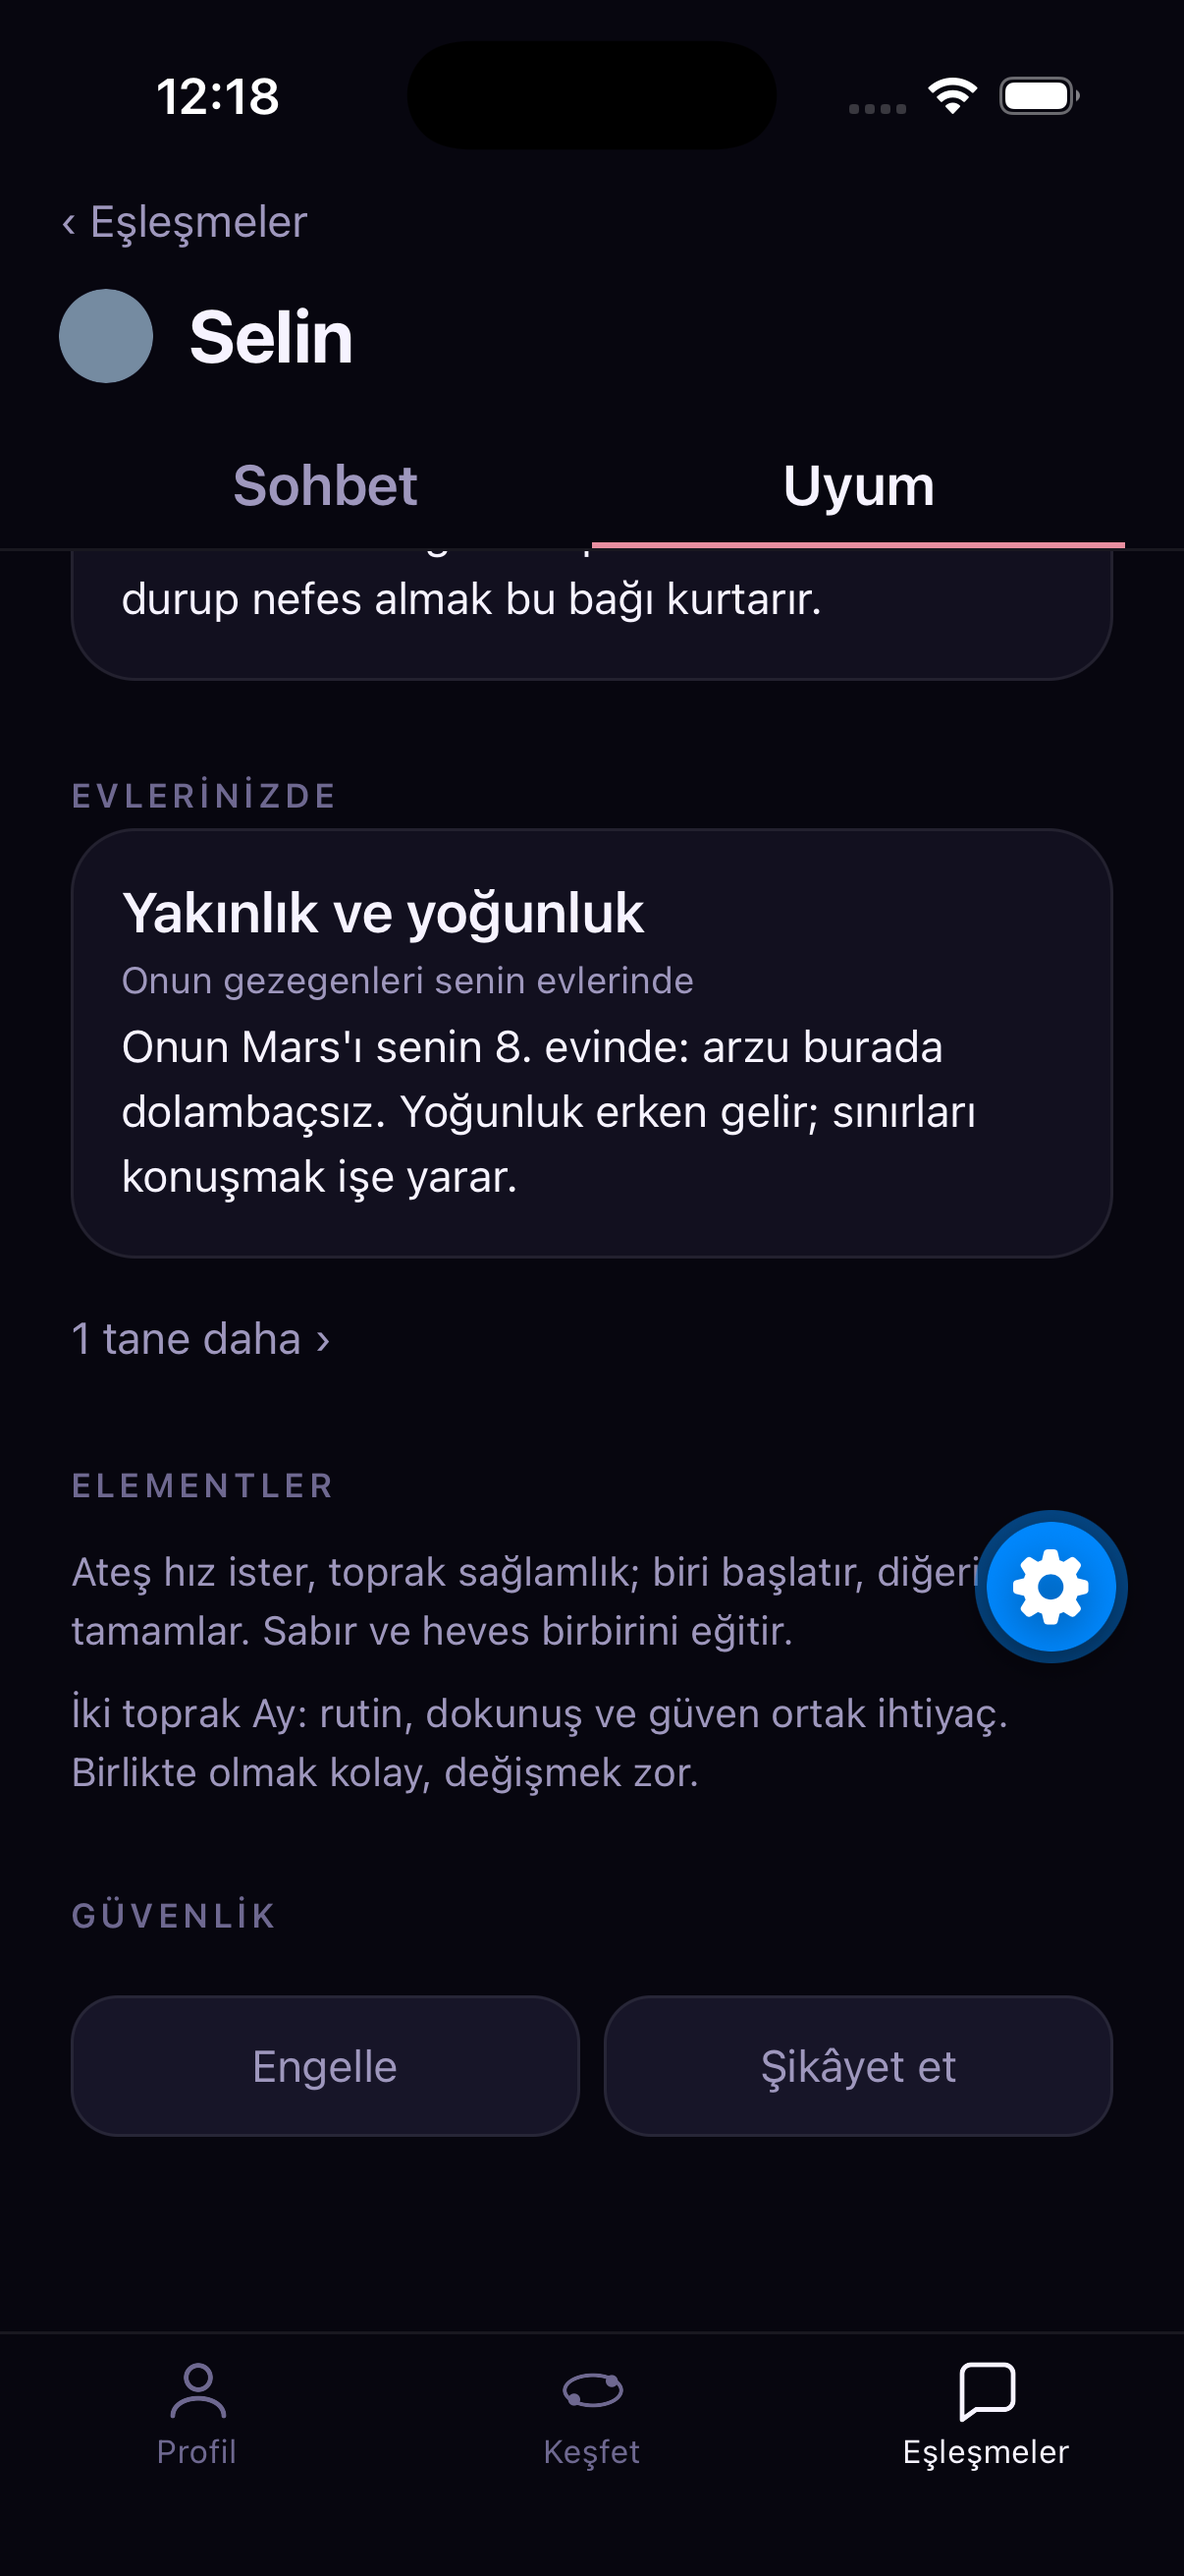
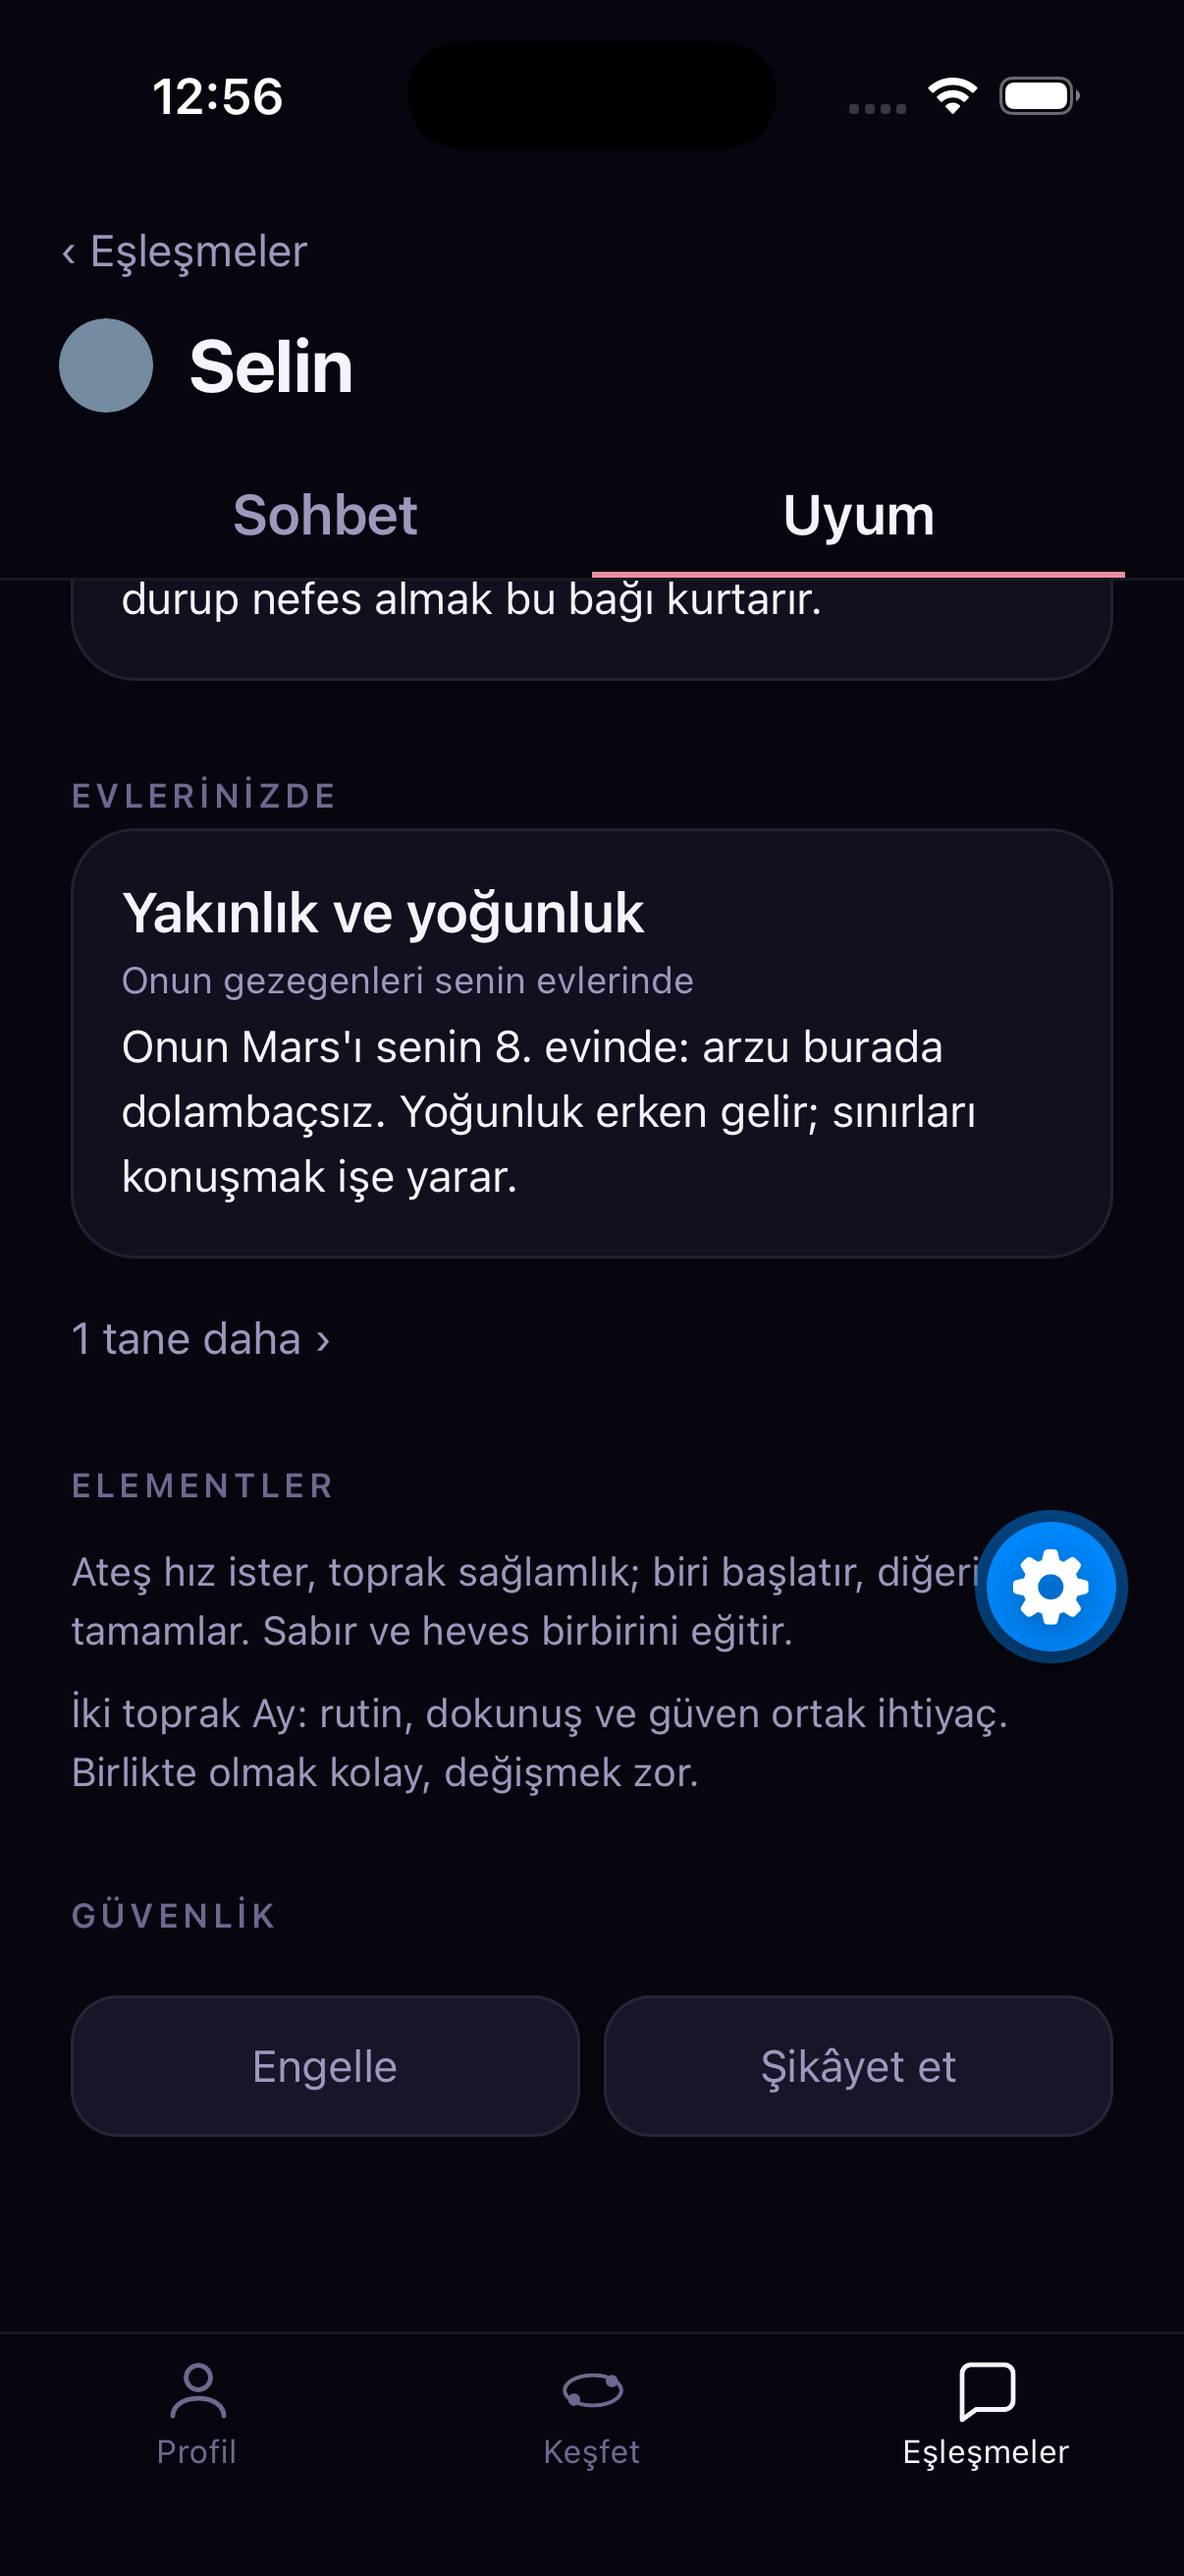
test: pin the Ascendant's degree at the call site that regressed
The rounding fix shipped with a test for the helper, so reverting the
call site back to a raw `% 30` left all 284 tests green. natalReading
now gets an Ascendant of 30.2 and the card is pinned to 0°12′, which is
what the raw modulo prints as 0°11′.

Three more from the same review: degreeInSign could round a longitude up
onto the sign boundary, which an Ascendant can reach because the schema
bounds it only to [0, 360); the dimension chips' flexBasis of 58 needed
322pt where a 360dp Android leaves 310, so the row would have wrapped
with one stretched orphan below it; and the chat header's inset is
floored at 44 for the web client, where it is 0.

Changed region(s): [[0.0307, 0.0309, 0.3068, 0.1854], [0.1841, 0.1854, 0.3682, 0.2162], [0.6443, 0.1854, 0.7977, 0.2162]]

diff --git a/apps/mobile/components/CompatibilityDetail.tsx b/apps/mobile/components/CompatibilityDetail.tsx
@@ -178,12 +178,15 @@ const styles = StyleSheet.create({
   // large Dynamic Type setting a fixed single line would come back as
   // "Yakınlı…" on all five, which is the same complaint in a worse form.
   // `flexWrap` is kept as the escape hatch for a width that cannot hold
-  // five chips at all — five basis widths and four gaps need 322pt, and
-  // the narrowest phone this ships to leaves 327.
+  // five chips at all. Five basis widths and four gaps need 292pt; the
+  // narrowest layout this has to survive is a 360dp Android inside the
+  // page's 24pt padding and a popup's borders, which leaves 310. The
+  // basis is only the wrap threshold — `flexGrow` still spreads the five
+  // across whatever the device actually gives them.
   dimensionRow: { flexDirection: 'row', flexWrap: 'wrap', gap: space.sm },
   dimensionChip: {
     flexGrow: 1,
-    flexBasis: 58,
+    flexBasis: 52,
     alignItems: 'center',
     backgroundColor: color.surfaceSoft,
     borderRadius: radius.sm,

diff --git a/packages/astro/src/summary.test.ts b/packages/astro/src/summary.test.ts
@@ -31,6 +31,20 @@ describe('natalReading', () => {
     expect(reading.risingText).toMatch(/Meraklı|konuşkan/); // Gemini rising
   });
 
+  // The helper is tested in public.test.ts; this pins the call site that
+  // regressed, where a raw `% 30` printed an arcminute low.
+  it("rounds the Ascendant's degree the way it rounds a planet's", () => {
+    const chart = pub(istanbul);
+    const withAscendant = {
+      ...chart,
+      houses: { ...chart.houses, ascendant: 30.2 },
+    };
+    const card = natalReading(withAscendant).placements.find(
+      (p) => p.placement === 'ascendant',
+    );
+    expect(card?.degree).toBe('0°12′');
+  });
+
   it('marks retrograde planets with a retrograde line and never the Sun or Moon', () => {
     const at = (body: string) =>
       reading.placements.find((p) => p.placement === body);

diff --git a/packages/astro/src/signs.ts b/packages/astro/src/signs.ts
@@ -50,7 +50,11 @@ export function signOf(longitude: number): Sign {
  * agree with astro.com (ADR-0009).
  */
 export function degreeInSign(longitude: number): number {
-  return Number((normalizeDegrees(longitude) % 30).toFixed(4));
+  // The second modulo is not redundant: rounding can carry a value up to
+  // the sign boundary (29.99999 → 30.0000), and "Boğa'da 30°00′" is not
+  // a degree in a sign. `toPublicChart` rounds its longitudes first so
+  // its planets never reach it; an Ascendant is whatever the row holds.
+  return Number((normalizeDegrees(longitude) % 30).toFixed(4)) % 30;
 }
 
 /** Signed angular difference folded into [-180, 180). */

diff --git a/apps/mobile/app/(tabs)/(matches)/chat/[id].tsx b/apps/mobile/app/(tabs)/(matches)/chat/[id].tsx
@@ -248,7 +248,14 @@ function ChatView({
 
   return (
     <View style={styles.screen} testID="chat-screen">
-      <View style={[styles.header, { paddingTop: insets.top + space.xs }]}>
+      <View
+        style={[
+          styles.header,
+          // The floor is for the web client, where the inset is 0 and
+          // the back link would sit against the top of the viewport.
+          { paddingTop: Math.max(insets.top, 44) + space.xs },
+        ]}
+      >
         <BackLink
           label={t.chat.backToMatches}
           fallback="/matches"

diff --git a/packages/astro/src/public.test.ts b/packages/astro/src/public.test.ts
@@ -25,10 +25,11 @@ describe('degreeInSign', () => {
     expect(formatDegree(30.15 % 30)).toBe('0°08′');
   });
 
-  it('folds a longitude into its own sign', () => {
+  it('folds a longitude into its own sign, and never onto the boundary', () => {
     expect(degreeInSign(0)).toBe(0);
     expect(degreeInSign(359.9)).toBe(29.9);
-    expect(degreeInSign(-1)).toBe(29);
+    // Rounding can carry a value up to 30, which is the next sign's 0.
+    expect(degreeInSign(59.99999)).toBe(0);
   });
 });
 

diff --git a/docs/NOTES.md b/docs/NOTES.md
@@ -3733,3 +3733,17 @@ padding comes from the safe-area inset rather than a number that put the
 back link's hit area under the Dynamic Island; and
 `t.person.openProfile` lost the "›" it no longer earns now that it is
 only an accessibility label.
+
+The review of that fix approved it and left four things worth doing,
+all taken. The test that proved the rounding tested the helper, not the
+call site that had regressed: `summary.test.ts` now feeds an Ascendant
+of 30.2 through `natalReading` and pins `0°12′`, which the raw modulo
+prints as `0°11′`. `degreeInSign` could round a longitude up onto the
+boundary (59.99999 → "Boğa'da 30°00′"), unreachable through
+`toPublicChart` but not through an Ascendant the schema only bounds to
+[0, 360); a second modulo closes it. The chips' `flexBasis` of 58 needed
+322pt and a 360dp Android leaves 310, so the row would have wrapped with
+one stretched orphan on the second line — exactly the owner's complaint
+in a louder form; 52 needs 292 and holds. And the chat header's
+safe-area inset is floored at 44, because on the web client the inset is
+0 and the back link would sit against the top of the viewport.

diff --git a/docs/ROADMAP.md b/docs/ROADMAP.md
@@ -994,8 +994,9 @@ each item lands with its own screenshot.
 
 - [x] **6 — the dimension names fit one row.** (owner, mid-pass) The
       longest, "Duygusal yakınlık", pushed Gelişim onto a second line. It
-      is "Yakınlık" now, and the five chips share the row's width instead
-      of wrapping.
+      is "Yakınlık" now, and the five chips share one row's width, with
+      a wrap left as the escape hatch for a width too narrow to hold
+      five of them at all.
       — _Done. `s6-dimensions-one-row.png`: Yakınlık · Çekim · İletişim ·
       İstikrar · Gelişim, each with its meter, on one line._
 
